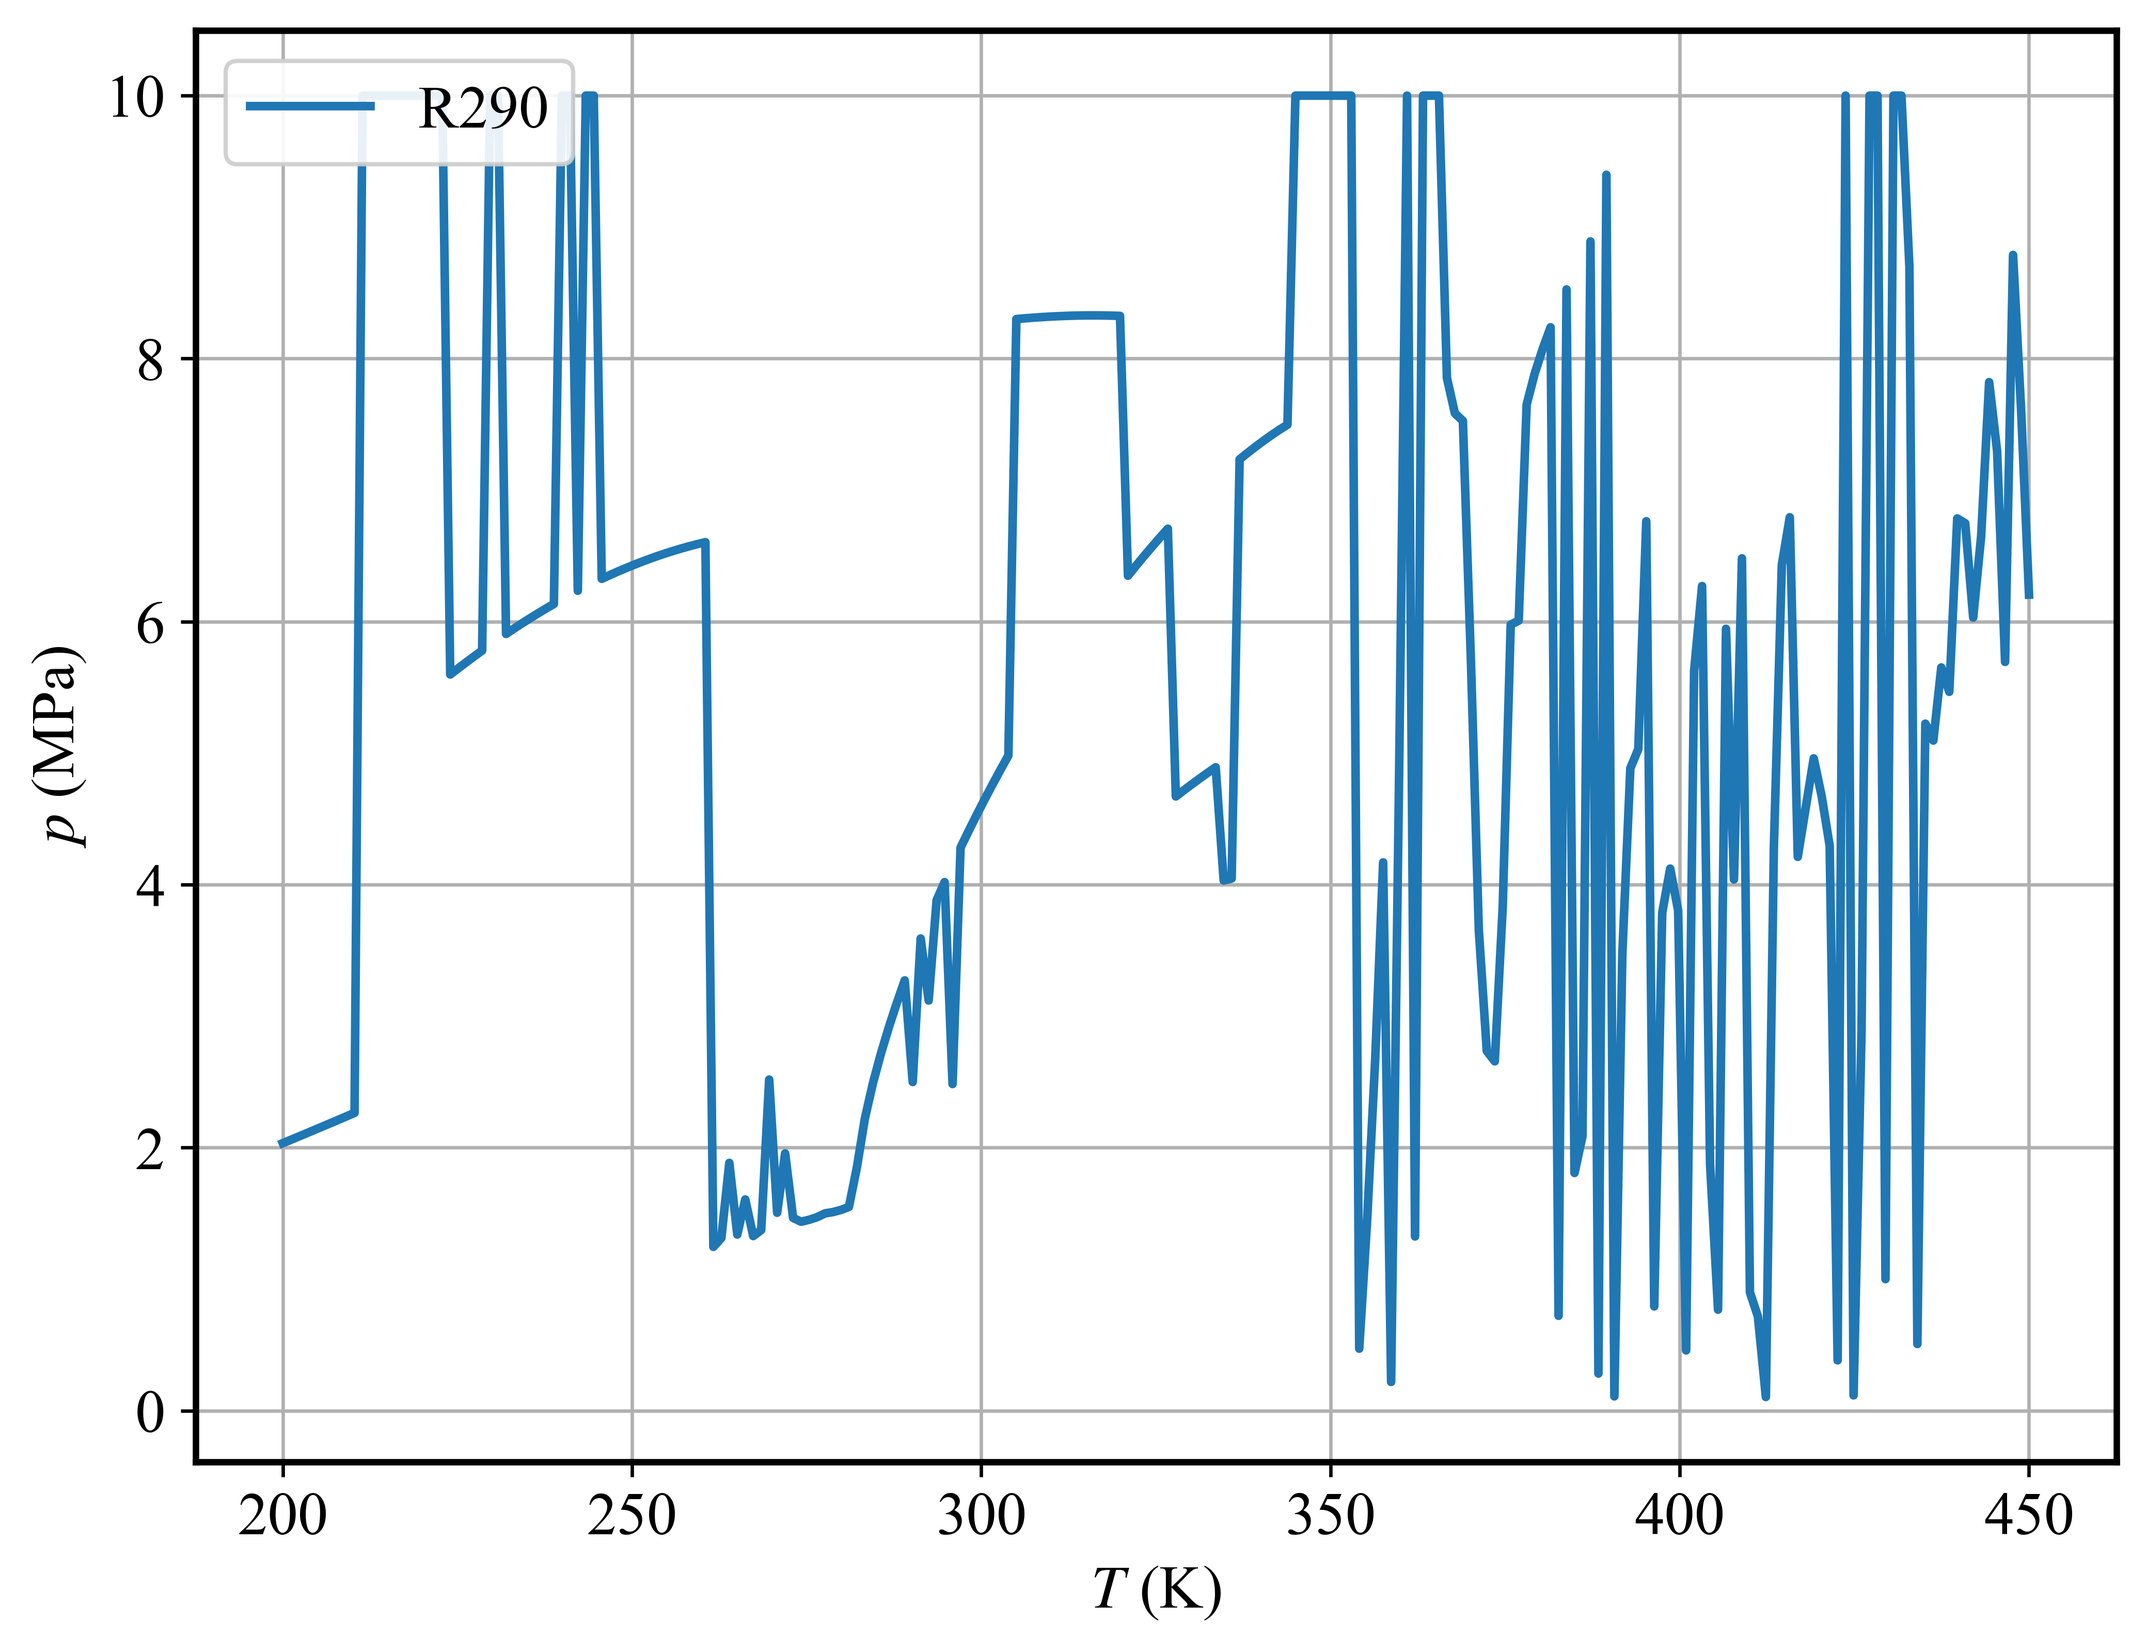
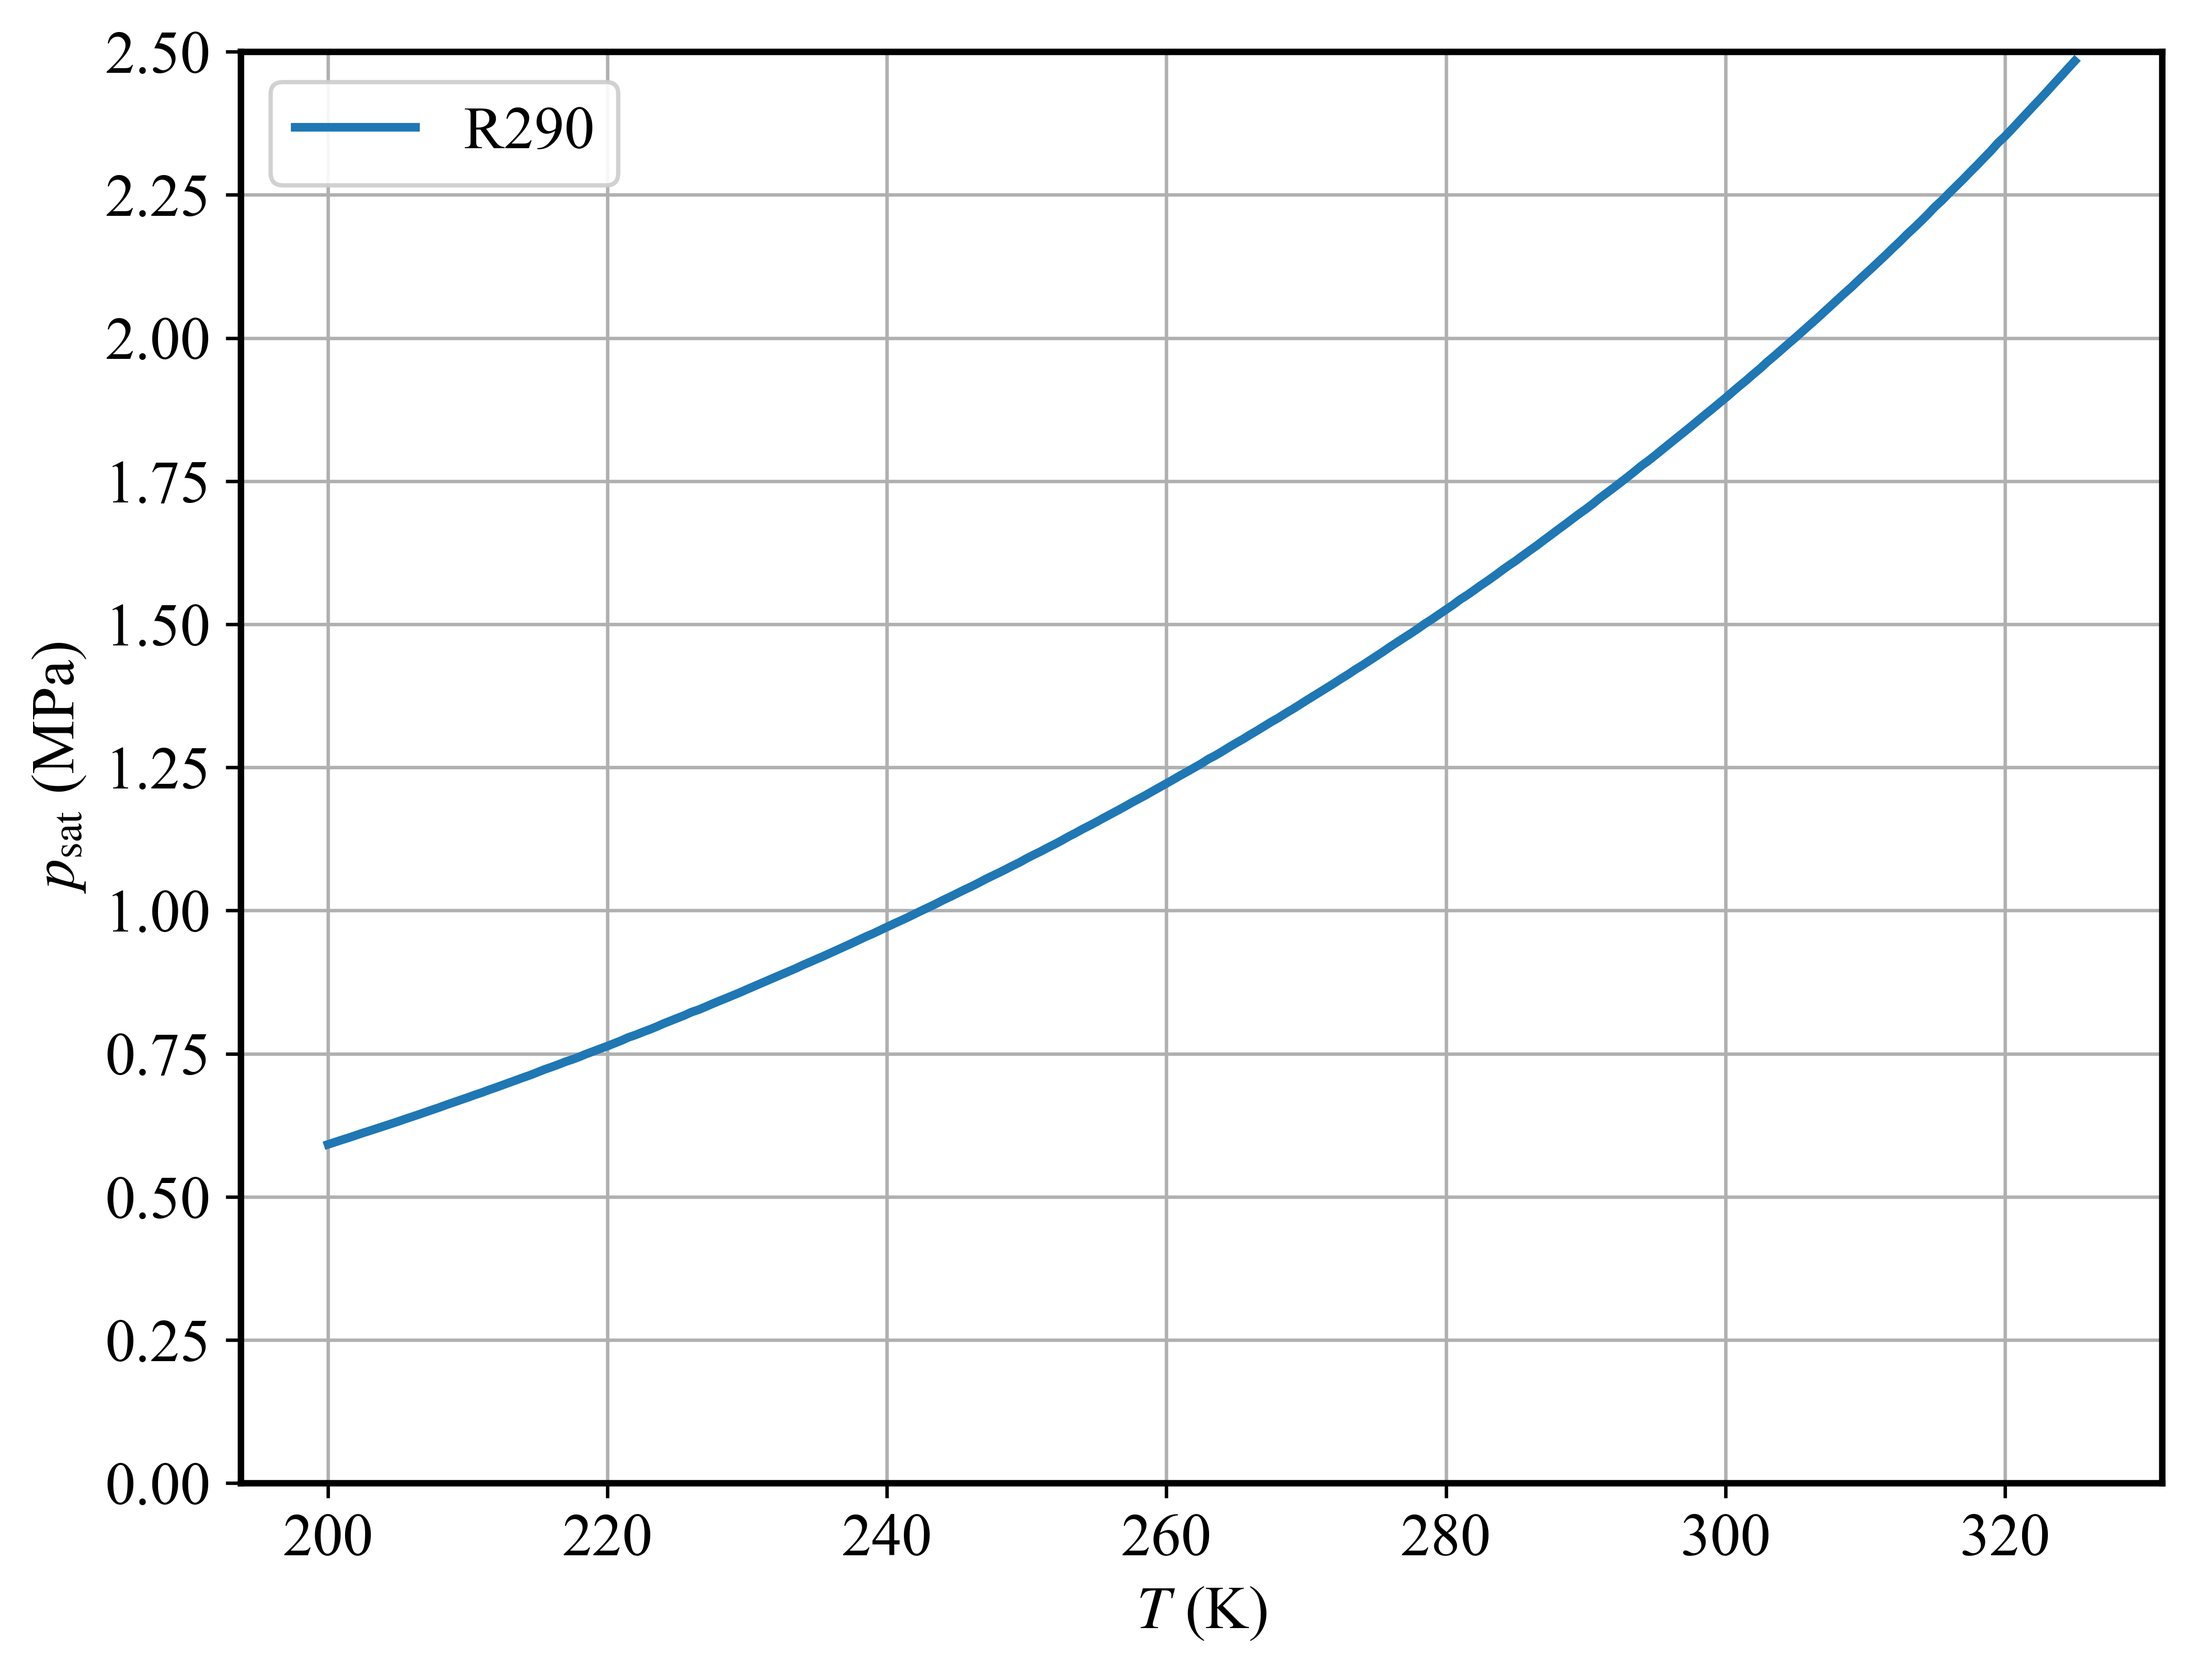
20251022_dorm

diff --git a/main/main.py b/main/main.py
@@ -452,57 +452,53 @@ class PR:
         fig_f.savefig(savepath_f, dpi=600, bbox_inches="tight", transparent=False)
         plt.close(fig_f)
 
-    # p-T相图
-    def plot_pT(self, fluid_name, T_min, T_max, nT=220):
-        T_grid = np.linspace(T_min, T_max, nT)  # 温度网格
-        p_grid = np.empty_like(T_grid)  # 压力网格
-        # 计算饱和压力
+    def plot_pT(self, fluid_name):
+        T_min = 200  # K
+        T_max = 325  # K
+        dT = 0.5  # K
+        p_min = 3e5  # Pa
+        p_max = self.pc1  # Pa
+        dp = 100  # Pa
+
+        nT = int((T_max - T_min) / dT) + 1
+        T_grid = T_min + np.arange(nT) * dT  # 温度网格
+
+        p_sat = np.full_like(T_grid, np.nan)
+
         for i, T in enumerate(T_grid):
-            # 使用二分法求解饱和压力
-            p_low = 0.001  # MPa
-            p_high = 10.0  # MPa
-            for _ in range(100):
-                p_mid = (p_low + p_high) / 2
-                phi_l1, phi_l2 = self.phi_l(T, p_mid)
-                phi_g1, phi_g2 = self.phi_g(T, p_mid)
-                f_l1 = self.x1 * phi_l1 * p_mid
-                f_l2 = self.x2 * phi_l2 * p_mid
-                f_g1 = self.x1 * phi_g1 * p_mid
-                f_g2 = self.x2 * phi_g2 * p_mid
-                if (f_l1 - f_g1) > 0:
-                    p_high = p_mid
-                else:
-                    p_low = p_mid
-                if abs(p_high - p_low) < 1e-6:
+            p = p_min
+            while p <= p_max:
+                if abs(self.Zg(T, p / 1e6) - self.Zl(T, p / 1e6)) < 1e-3:
+                    p_sat[i] = p
                     break
-            p_grid[i] = p_mid
-        fig, ax = plt.subplots(1, figsize=(8, 6))  # 创建图像和坐标轴
-        # 主曲线
-        ax.plot(
-            T_grid,
-            p_grid,
-            linewidth=2,
-            label=fluid_name,
-        )
-        # 轴标签
-        ax.set_xlabel(r"$T$ (K)")
-        ax.set_ylabel(r"$p$ (MPa)")
-        # 标题
-        # ax.set_title(f"{fluid_name}  $p$–$T$ Saturation Curve")
-        ax.grid(True)
-        ax.legend(loc="upper left", frameon=True, fancybox=True, framealpha=0.9)
+                p += dp
 
-        # 固定保存路径为脚本同目录下的 figs 文件夹
-        base_dir = os.path.dirname(os.path.abspath(__file__))
-        fig_dir = os.path.join(base_dir, "figs")
-        os.makedirs(fig_dir, exist_ok=True)
+        mask = np.isfinite(p_sat)
+        if np.any(mask):
+            p_plot = p_sat[mask] / 1e6  # 转换为 MPa
+            T_plot = T_grid[mask]
 
-        # 文件名固定为"流体名称_pT.png"
-        filename = f"{fluid_name}_pT.png"
-        savepath = os.path.join(fig_dir, filename)
-        # 保存图像，固定参数
-        fig.savefig(savepath, dpi=600, bbox_inches="tight", transparent=False)
-        plt.close(fig)
+            fig, ax = plt.subplots(1, figsize=(8, 6))
+            ax.plot(T_plot, p_plot, linewidth=2, label=fluid_name)
+            ax.set_xlabel(r"$T$ (K)")
+            ax.set_ylabel(r"$p_{\mathrm{sat}}$ (MPa)")
+
+            y_max = np.ceil(p_plot.max() / 0.25) * 0.25
+            ax.set_ylim(0, y_max)
+            ax.set_yticks(np.arange(0, y_max + 0.25, 0.25))
+
+            ax.grid(True)
+            ax.legend(loc="upper left", frameon=True, fancybox=True, framealpha=0.9)
+
+            base_dir = os.path.dirname(os.path.abspath(__file__))
+            fig_dir = os.path.join(base_dir, "figs")
+            os.makedirs(fig_dir, exist_ok=True)
+            savepath = os.path.join(fig_dir, f"{fluid_name}_pT.png")
+            fig.savefig(savepath, dpi=600, bbox_inches="tight", transparent=False)
+            plt.close(fig)
+
+        # 返回原始数据，便于外部检视或另行处理
+        return T_grid, p_sat
 
 
 if __name__ == "__main__":
@@ -673,18 +669,66 @@ if __name__ == "__main__":
     # R290R600a.plot_fT("R290R600a", 1.4, 350, 450, 11)
 
     # 7-4
-    R290 = PR(
-        Tc1=369.89,  # K
-        pc1=4.2512,  # MPa
-        omega1=0.1521,  # 无量纲
-        M1=44.096,  # g/mol
-        x1=1.0,
-        Tc2=369.89,
-        pc2=4.2512,
-        omega2=0.1521,
-        M2=44.096,
-        kij=0.064,
-        ps0=0.47446,
-    )
-    R290.plot_pT("R290", 200, 450, 220)
+    # R290 = PR(
+    #     Tc1=369.89,  # K
+    #     pc1=4.2512,  # MPa
+    #     omega1=0.1521,  # 无量纲
+    #     M1=44.096,  # g/mol
+    #     x1=1.0,
+    #     Tc2=369.89,
+    #     pc2=4.2512,
+    #     omega2=0.1521,
+    #     M2=44.096,
+    #     kij=0.064,
+    #     ps0=0.47446,
+    # )
+    # R290.plot_pT("R290")
+
+    # R600a = PR(
+    #     Tc1=407.81,
+    #     pc1=3.629,
+    #     omega1=0.184,
+    #     M1=58.122,  # R600a
+    #     x1=1.0,
+    #     Tc2=407.81,
+    #     pc2=3.629,
+    #     omega2=0.184,
+    #     M2=58.122,  # R600a
+    #     kij=0.0,
+    #     ps0=0.15696,
+    # )
+    # R600a.plot_pT("R600a")
+
+    # R1234yf = PR(
+    #     Tc1=367.85,
+    #     pc1=3.3822,
+    #     omega1=0.276,
+    #     M1=114.04,  # R1234yf
+    #     x1=1.0,
+    #     Tc2=367.85,
+    #     pc2=3.3822,
+    #     omega2=0.276,
+    #     M2=114.04,  # R1234yf
+    #     kij=0.0,
+    #     ps0=0.42483,
+    # )
+    # R1234yf.plot_pT("R1234yf")
+
+    # R1234ze = PR(
+    #     Tc1=382.75,
+    #     pc1=3.6349,
+    #     omega1=0.313,
+    #     M1=114.04,  # R1234ze
+    #     x1=1.0,
+    #     Tc2=382.75,
+    #     pc2=3.6349,
+    #     omega2=0.313,
+    #     M2=114.04,  # R1234ze
+    #     kij=0.0,
+    #     ps0=0.49314,
+    # )
+    # R1234ze.plot_pT("R1234ze")
+
     # 7-5
+
+    pass
